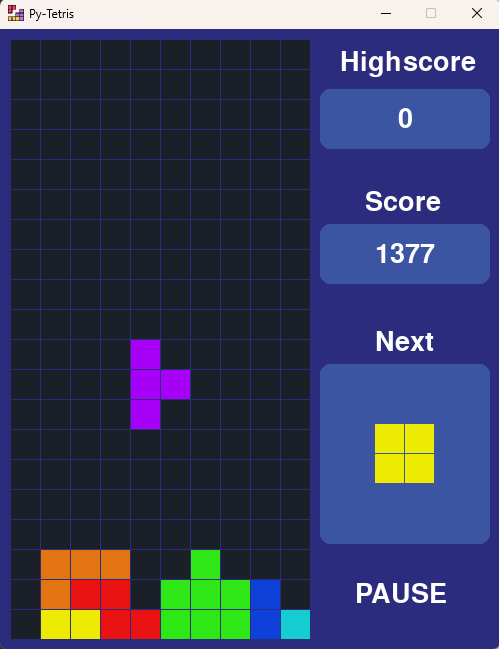
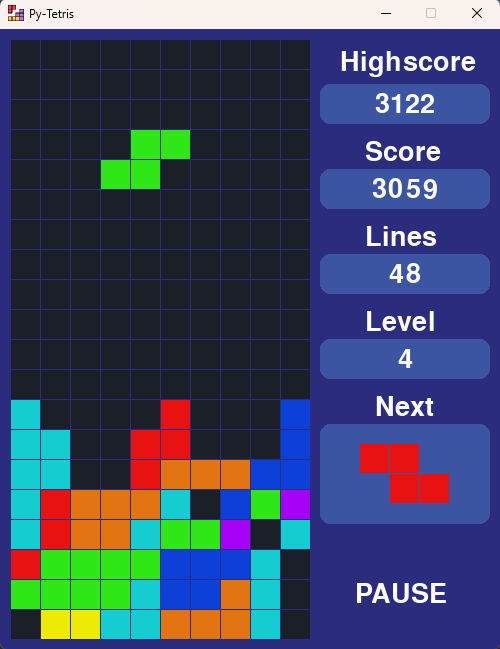
add lines and levels counter and update user interface

diff --git a/main.py b/main.py
@@ -10,6 +10,7 @@ import pygame
 import sys
 from engine.colors import Colors
 from engine.game import Game
+from engine.levels import Levels
 
 pygame.init()
 
@@ -17,13 +18,17 @@ title_font = pygame.font.Font(None, 40)
 
 highscore_surface = title_font.render("Highscore", True, Colors.white)
 score_surface = title_font.render("Score", True, Colors.white)
+lines_surface = title_font.render("Lines", True, Colors.white)
+level_surface = title_font.render("Level", True, Colors.white)
 next_surface = title_font.render("Next", True, Colors.white)
 game_over_surface = title_font.render("GAME OVER", True, Colors.white)
 game_paused_surface = title_font.render("PAUSE", True, Colors.white)
 
-highscore_rect = pygame.Rect(320, 60, 170, 60)
-score_rect = pygame.Rect(320, 195, 170, 60)
-next_rect = pygame.Rect(320, 335, 170, 180)
+highscore_rect = pygame.Rect(320, 55, 170, 40)
+score_rect = pygame.Rect(320, 140, 170, 40)
+lines_rect = pygame.Rect(320, 225, 170, 40)
+level_rect = pygame.Rect(320, 310, 170, 40)
+next_rect = pygame.Rect(320, 395, 170, 100)
 
 icon = pygame.image.load('assets/icon/icon.png')
 screen = pygame.display.set_mode((500, 620))
@@ -38,8 +43,10 @@ game = Game()
 
 print("Py-Tetris running...")
 
+level = 1
+
 GAME_UPDATE = pygame.USEREVENT
-pygame.time.set_timer(GAME_UPDATE, 200)
+pygame.time.set_timer(GAME_UPDATE, Levels.level[level])
 
 while running:
 	for event in pygame.event.get():
@@ -50,6 +57,7 @@ while running:
 		if event.type == pygame.KEYDOWN:
 			if game.game_over == True:
 				game.game_over = False
+				
 				game.reset()
 
 			if event.key == pygame.K_q:
@@ -72,26 +80,39 @@ while running:
 				game.move_down()
 
 	#drawing
-	highscore_value_surface = title_font.render(str(game.get_highscore()), True, Colors.white)
+	highscore_value_surface = title_font.render(str(game.highscore), True, Colors.white)
 	score_value_surface = title_font.render(str(game.score), True, Colors.white)
+	lines_value_surface = title_font.render(str(game.lines), True, Colors.white)
+	level_value_surface = title_font.render(str(game.level), True, Colors.white)
 
 	screen.fill(Colors.dark_blue)
 	screen.blit(highscore_surface, (340, 20, 50, 50))
-	screen.blit(score_surface, (365, 160, 50, 50))
-	screen.blit(next_surface, (375, 300, 50, 50))
+	screen.blit(score_surface, (365, 110, 50, 50))
+	screen.blit(lines_surface, (365, 195, 50, 50))
+	screen.blit(level_surface, (365, 280, 50, 50))
+	screen.blit(next_surface, (375, 365, 50, 50))
 
 	if game.game_paused == True:
 		screen.blit(game_paused_surface, (355, 552, 50, 50))
 
 	if game.game_over == True:
 		screen.blit(game_over_surface, (320, 552, 50, 50))
-	
+		level = 1
+
+	if game.level > level:
+		level += 1
+		pygame.time.set_timer(GAME_UPDATE, Levels.level[level])
+
 	pygame.draw.rect(screen, Colors.light_blue, highscore_rect, 0, 10)
 	pygame.draw.rect(screen, Colors.light_blue, score_rect, 0, 10)
+	pygame.draw.rect(screen, Colors.light_blue, lines_rect, 0, 10)
+	pygame.draw.rect(screen, Colors.light_blue, level_rect, 0, 10)
 	
 	screen.blit(highscore_value_surface, highscore_value_surface.get_rect(centerx = highscore_rect.centerx, centery = highscore_rect.centery))
 	screen.blit(score_value_surface, score_value_surface.get_rect(centerx = score_rect.centerx, centery = score_rect.centery))
-	
+	screen.blit(lines_value_surface, lines_value_surface.get_rect(centerx = lines_rect.centerx, centery = lines_rect.centery))
+	screen.blit(level_value_surface, level_value_surface.get_rect(centerx = level_rect.centerx, centery = level_rect.centery))
+
 	pygame.draw.rect(screen, Colors.light_blue, next_rect, 0, 10)
 	game.draw(screen)
 

diff --git a/engine/game.py b/engine/game.py
@@ -28,30 +28,38 @@ class Game:
 		self.HIGHSCORE_FILE = "highscore.txt"
 		self.rotate_sound = pygame.mixer.Sound("assets/sounds/rotate.ogg")
 		self.clear_sound = pygame.mixer.Sound("assets/sounds/clear.ogg")
+		self.level = 1
+		self.lines = 0
+		self.lines_per_level = 0
+
+		file = open(self.HIGHSCORE_FILE, "r")
+		self.highscore = file.read()
 
 		pygame.mixer.music.load("assets/sounds/music.ogg")
 		pygame.mixer.music.play(-1)
 		
 	def update_score(self, lines_cleared, move_down_points):
-		match lines_cleared:
-			case 1:
-				self.score += 40
-			case 2:
-				self.score += 100
-			case 3:
-				self.score += 300
-			case 4:
-				self.score += 1200
-		self.score += move_down_points
+		if self.level < 10:
+			if self.lines_per_level >= 15:
+				self.lines_per_level = 0
+				self.level += 1
 
-	def get_highscore(self):
-		file = open(self.HIGHSCORE_FILE, "r")
-		highscore = file.read()
-		return highscore
+			match lines_cleared:
+				case 1:
+					self.score += 40
+				case 2:
+					self.score += 100
+				case 3:
+					self.score += 300
+				case 4:
+					self.score += 1200
+
+			self.score += move_down_points
+			self.lines += lines_cleared
+			self.lines_per_level += lines_cleared
 
 	def set_highscore(self):
-		highscore = self.get_highscore()
-		if self.score > int(highscore):
+		if self.score > int(self.highscore):
 			file = open(self.HIGHSCORE_FILE, "a")
 			file.seek(0)
 			file.truncate()
@@ -116,6 +124,9 @@ class Game:
 		self.next_block = self.get_random_block()
 		self.set_highscore()
 		self.score = 0
+		self.level = 1
+		self.lines = 0
+		self.lines_per_level = 0
 
 	def block_fits(self):
 		tiles = self.current_block.get_cell_positions()
@@ -144,8 +155,8 @@ class Game:
 
 		# only pieces I and O are custom drawn centralized 
 		if self.next_block.id == 1:
-			self.next_block.draw(screen, 255, 408)
+		 	self.next_block.draw(screen, 255, 430)
 		elif self.next_block.id == 4:
-			self.next_block.draw(screen, 255, 395)
+		 	self.next_block.draw(screen, 255, 415)
 		else:
-			self.next_block.draw(screen, 270, 390)
+		 	self.next_block.draw(screen, 270, 415)

diff --git a/engine/levels.py b/engine/levels.py
@@ -1,0 +1,20 @@
+#
+#  Developed by Maximiliano Brignone 
+#  https://github.com/mbrignone93
+#  © 2023	
+#
+
+class Levels:
+
+	level = {
+		1: 500,
+		2: 450,
+		3: 400,
+		4: 350,
+		5: 300,
+		6: 250,
+		7: 200,
+		8: 150,
+		9: 100,
+		10: 50
+	}
